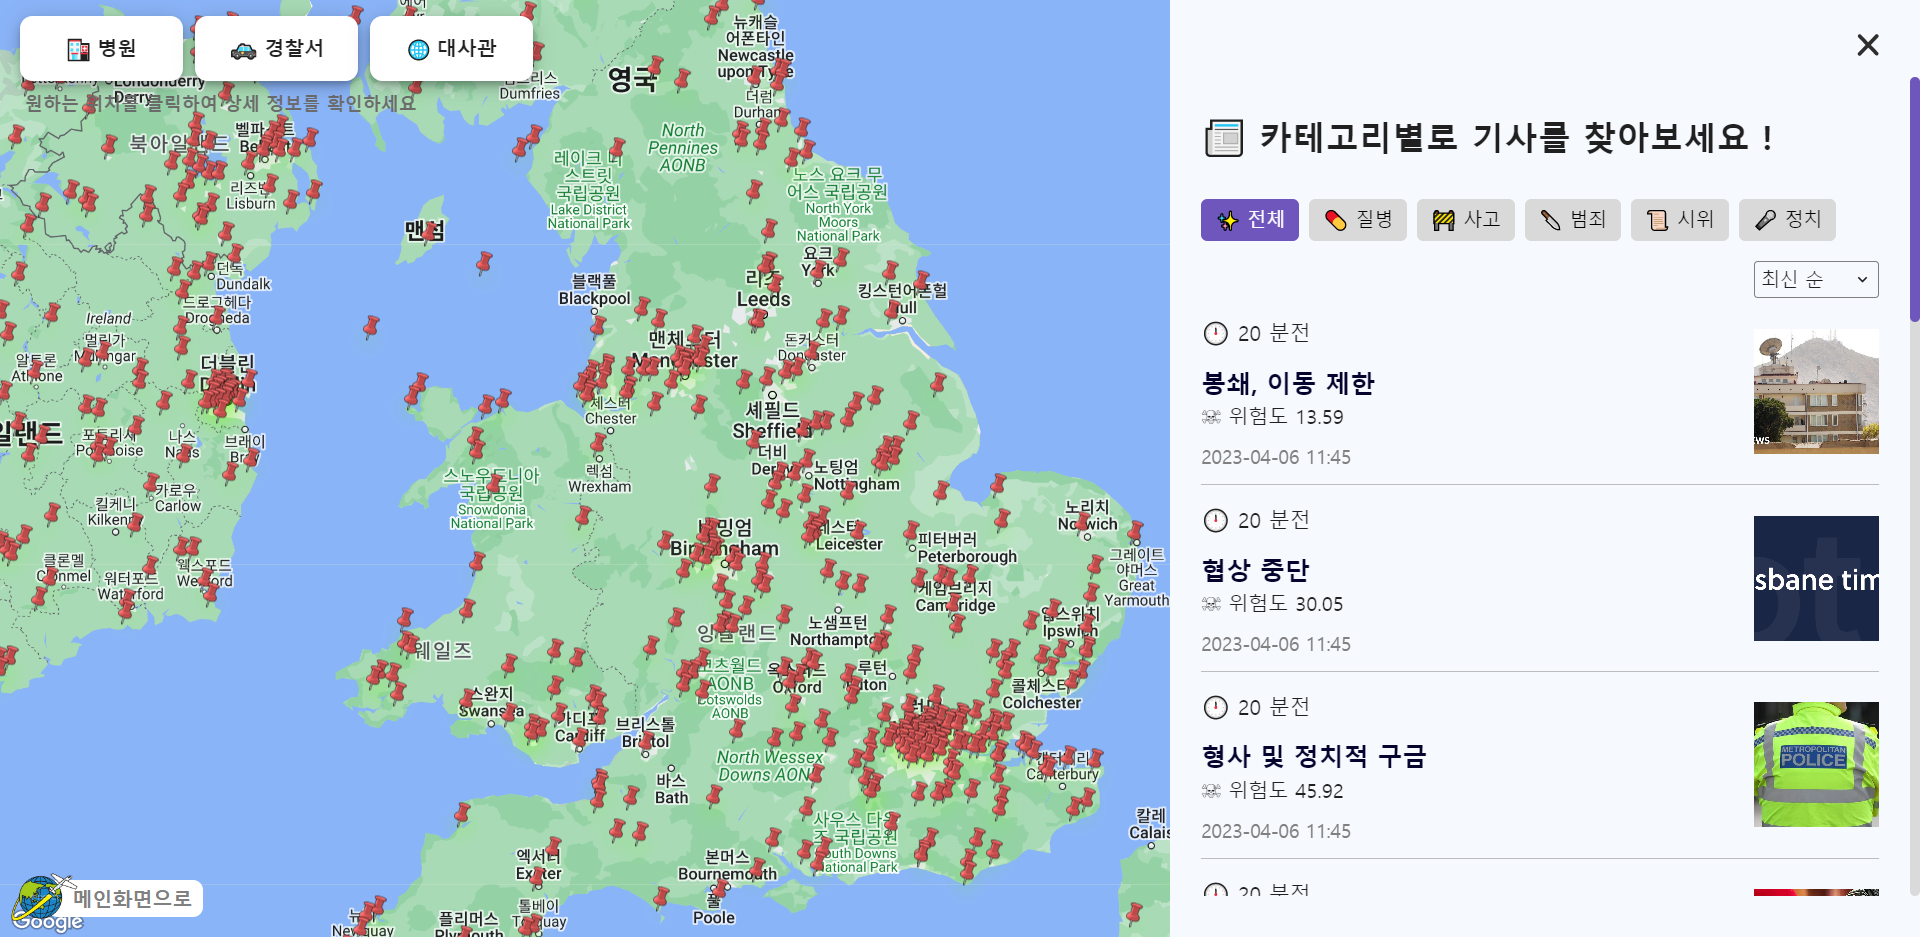
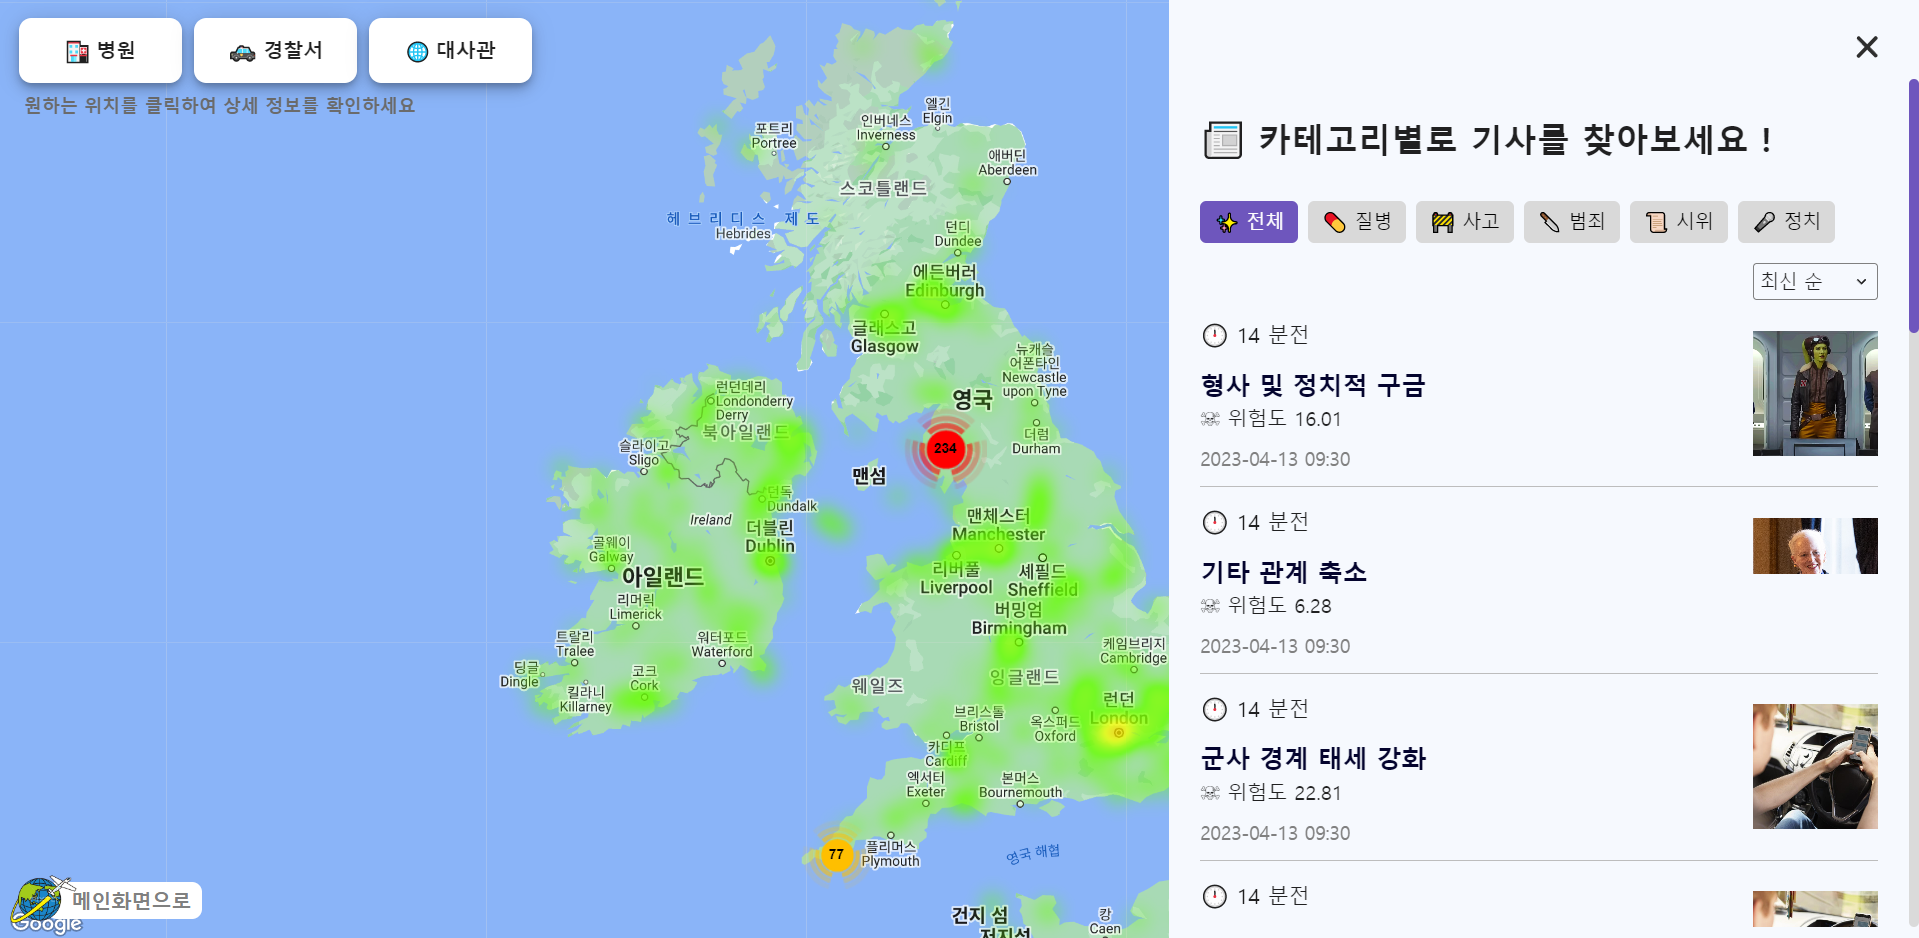
민감성 데이터 삭제

diff --git a/frontend/src/pages/Map.js b/frontend/src/pages/Map.js
@@ -161,6 +161,7 @@ export default function Map() {
             name: res.name,
             rating: res.rating,
             address: res.vicinity,
+            radius: 5000,
           };
         });
         result.push(...newList);
@@ -217,9 +218,7 @@ export default function Map() {
 
   useEffect(() => {
     if (heatmapData !== null) {
-      setTimeout(() => {
-        setIsLoading(false);
-      }, 2000);
+      setIsLoading(false);
     }
   }, [heatmapData]);
 

diff --git a/frontend/src/components/Header.js b/frontend/src/components/Header.js
@@ -99,16 +99,6 @@ function Header(props) {
     }, 500);
   };
 
-  // useEffect(() => {
-  //   // load Topics
-  //   axios.get("http://j8e106.p.ssafy.io:8080/api/articles").then((res) => {
-  //     if (res.data.resultCode === "SUCCESS") {
-  //       console.log(res.data);
-  //       setTopics(res.data.result);
-  //     }
-  //   });
-  // }, []);
-
   const navigate = useNavigate();
   const changePg = () => {
     navigate("/game");

diff --git a/frontend/src/pages/Loading.js b/frontend/src/pages/Loading.js
@@ -9,7 +9,14 @@ function Loading() {
     setText("H");
   }, []);
   return (
-    <div style={{ width: "100%", height: "100vh", backgroundColor: "#323232" }}>
+    <div
+      style={{
+        width: "100%",
+        height: "100vh",
+        backgroundColor: "#323232",
+        zIndex: 999999,
+      }}
+    >
       {isMobile ? (
         <img
           src="/assets/loading.gif"

diff --git a/README.md b/README.md
@@ -17,13 +17,13 @@
 ## 😊 참여 인원 및 역할
 
 | 이름   | 역할          |
-| ------ | ------------- | --- |
+| ------ | ------------- |
 | 강민정 | Back-End      |
 | 권성현 | Front-End     |
 | 배충현 | Data          |
 | 성정언 | Front-End     |
 | 장미림 | Front-End     |
-| 정원웅 | Data & Server | \   |
+| 정원웅 | Data & Server |
 
 ## 💎 목차
 
@@ -43,11 +43,15 @@
 - 여행을 떠나는 사람들에게 해당 지역의 사건 및 뉴스를 가능한 빨리 접할 수 있게 한다.
 - 비상상황 발생시 이용할 수 있는 주변 기관 위치 정보를 제공한다.
 
+  <br />
+
 ## 예상 사용자
 
 - 혼자 여행할 수 있는 수준의 안전한 도시를 찾는 여행자
 - 현재 여행하는 곳의 치안 확인하고 싶은 여행자
 - 주변 공공 기관 정보를 알고 싶은 위험에 처한 여행자
+
+<br />
 
 ## 주요 기능
 
@@ -55,6 +59,8 @@
 - 지역별 병원, 대사관, 경찰서 등 장소 제공
 - 영어/한국어 두가지 언어 지원
 - 3D 지구본을 활용한 게임 제공
+
+<br />
 
 ## 세부 기능 설명
 
@@ -70,6 +76,8 @@
 - 3D 지구본을 활용한 게임 제공
   - 수도 맞추기 게임
   - 국기 맞추기 게임
+
+<br />
 
 ## 기대효과
 
@@ -88,7 +96,7 @@
 
 ## 개발환경
 
-![](./etc/readme_imgs/기술스택.PNG)
+![](./etc/readme_imgs/기술스택.png)
 
 ## Entity Relationship Diagram
 
@@ -156,7 +164,7 @@
 - 히트맵으로 대략적인 치안수치 확인 가능
   <img src="./etc/readme_imgs/demo/map2.png"  />
   <br />
-- 특정 수준까지 zoom in 시, 마커 핀 표시 + 사이드바에 해당 국가의 최신 기사 500개 보여줌
+- 마커 20개 이상은 클러스터링되고, 특정 수준까지 zoom in 시 마커 핀 표시 + 사이드바에 해당 국가의 최신 기사 500개 보여줌
   <img src="./etc/readme_imgs/demo/news.png"  />
 - 지도 내 특정 위치 클릭 후 좌측 상단의 토글 클릭 시 → 병원, 경찰서, 대사관 위치 확인 가능
   <img src="./etc/readme_imgs/demo/place.png"  />
